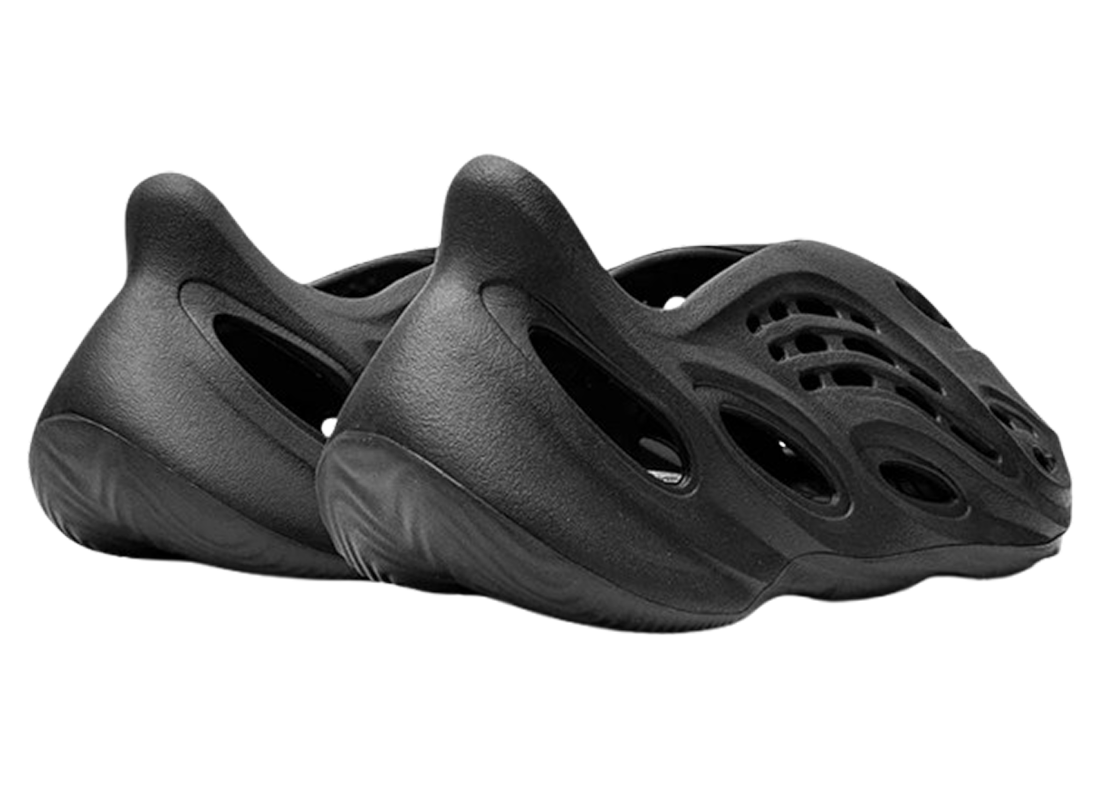
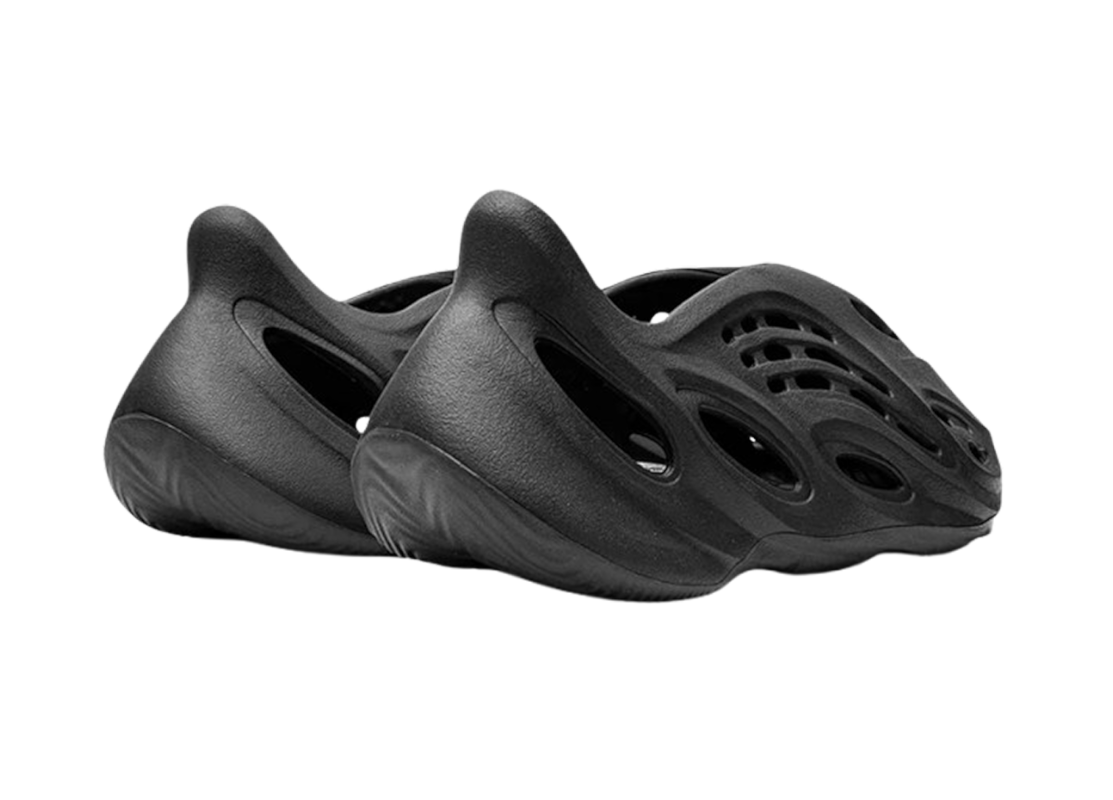
képek méretezés

Changed region(s): [[0.0, 0.1875, 0.9775, 0.8125]]

diff --git a/cipok/Adidas_superstar.html b/cipok/Adidas_superstar.html
@@ -30,7 +30,7 @@
                   <img src="/img/cipők/főoldal/Adidas Superstar 1.png" class="d-block w-100" alt="...">
                 </div>
                 <div class="carousel-item" data-bs-interval="2000">
-                  <img src="/img/cipők/Adidas Superstar/Adidas Superstar 2.png" class="d-block w-100" alt="..." style="margin-top: 150px;">
+                  <img src="/img/cipők/Adidas Superstar/Adidas Superstar 2.png" class="d-block w-100" alt="...">
   
                 </div>
                 <div class="carousel-item">
